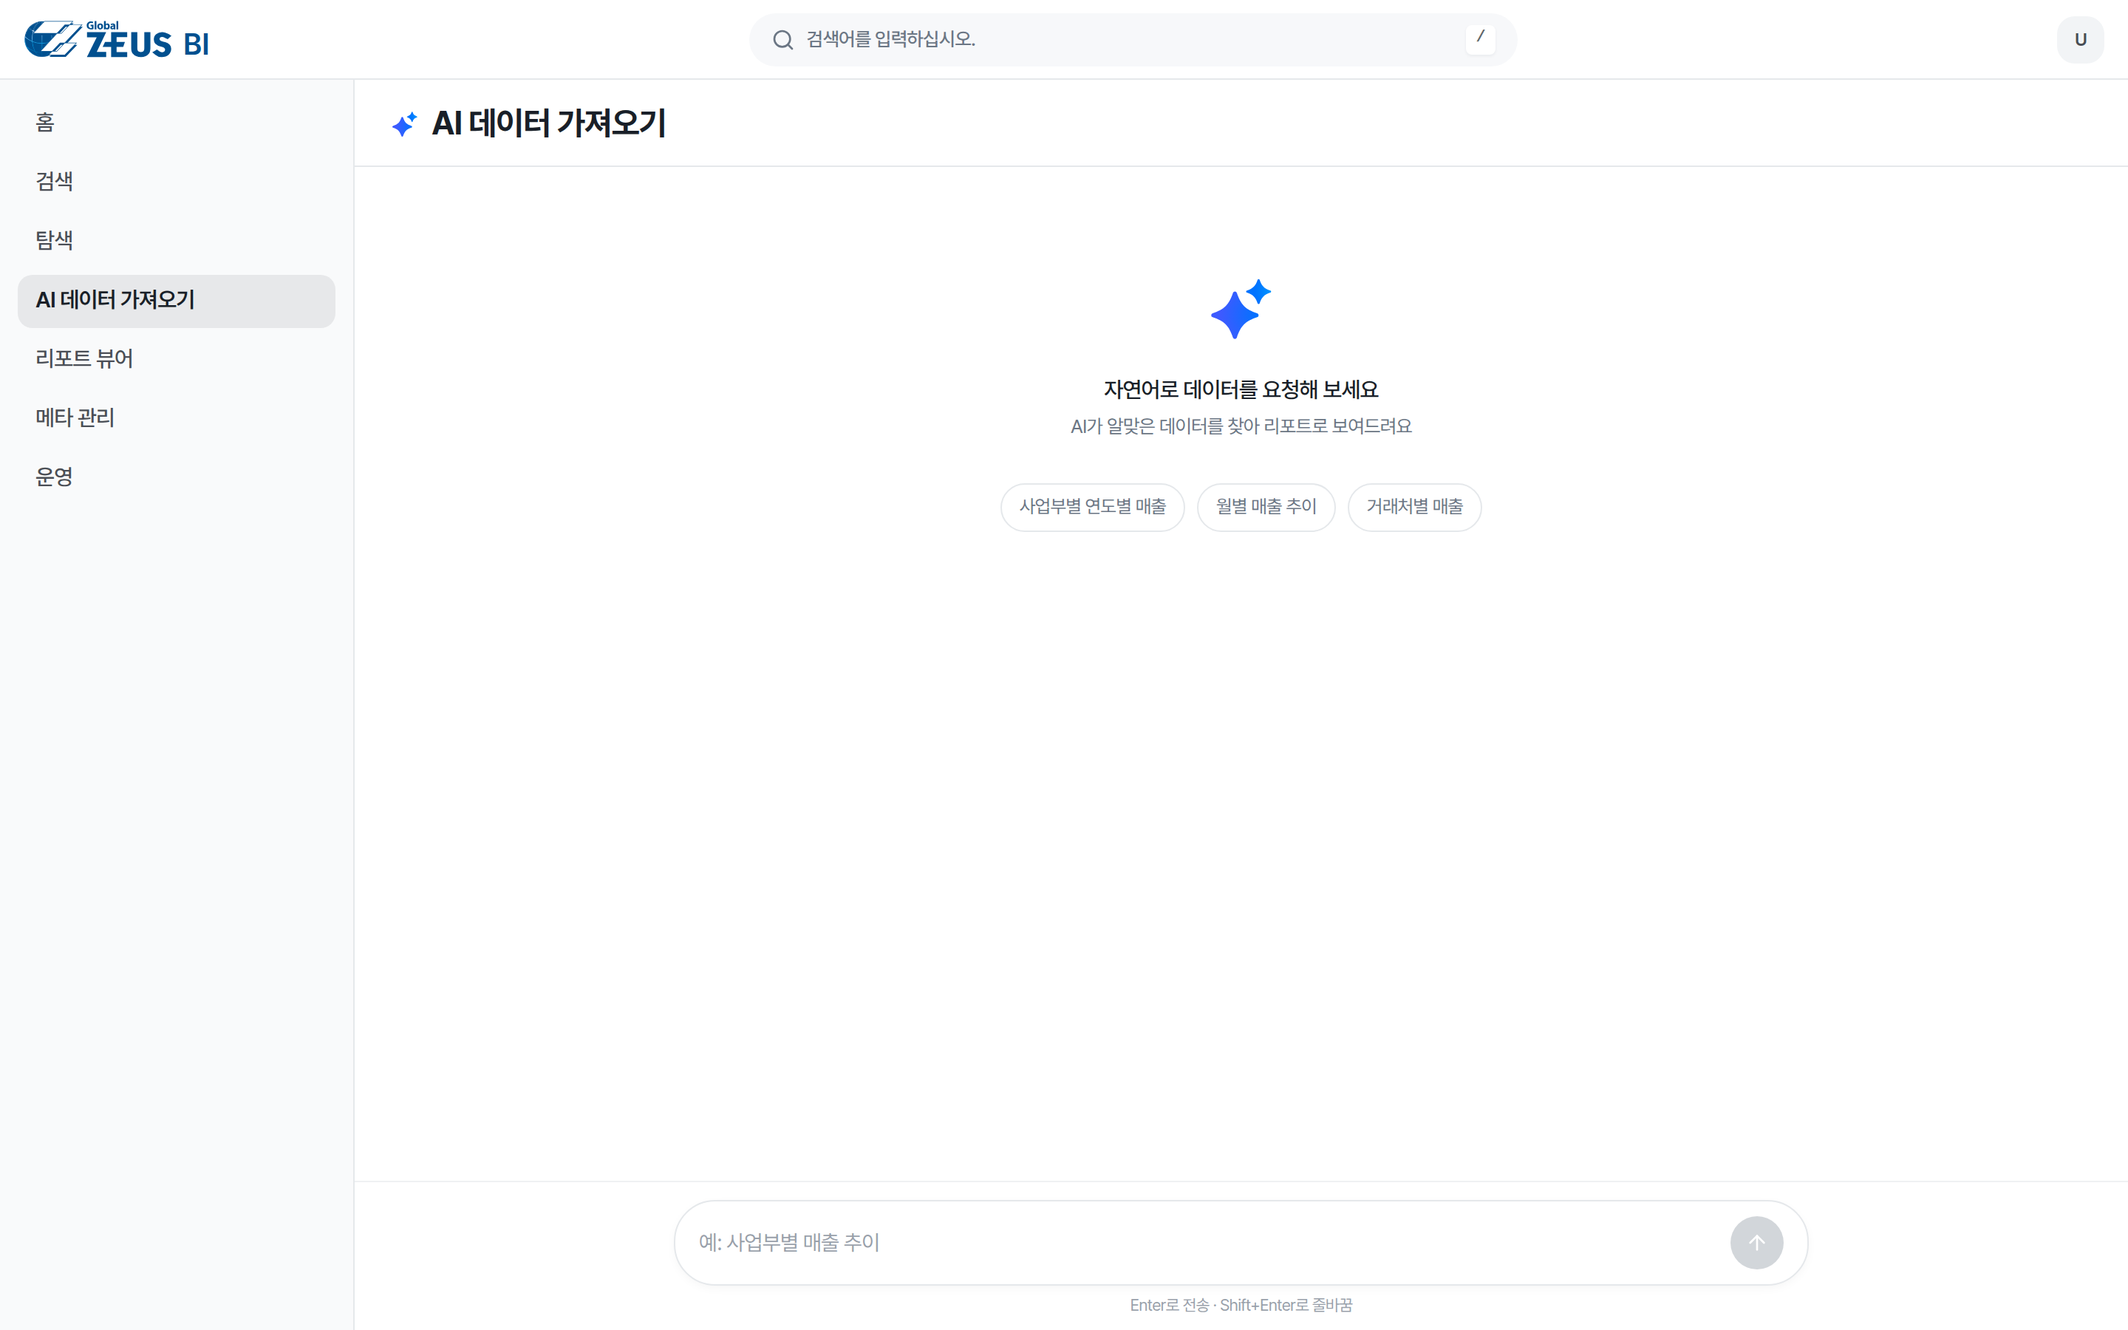
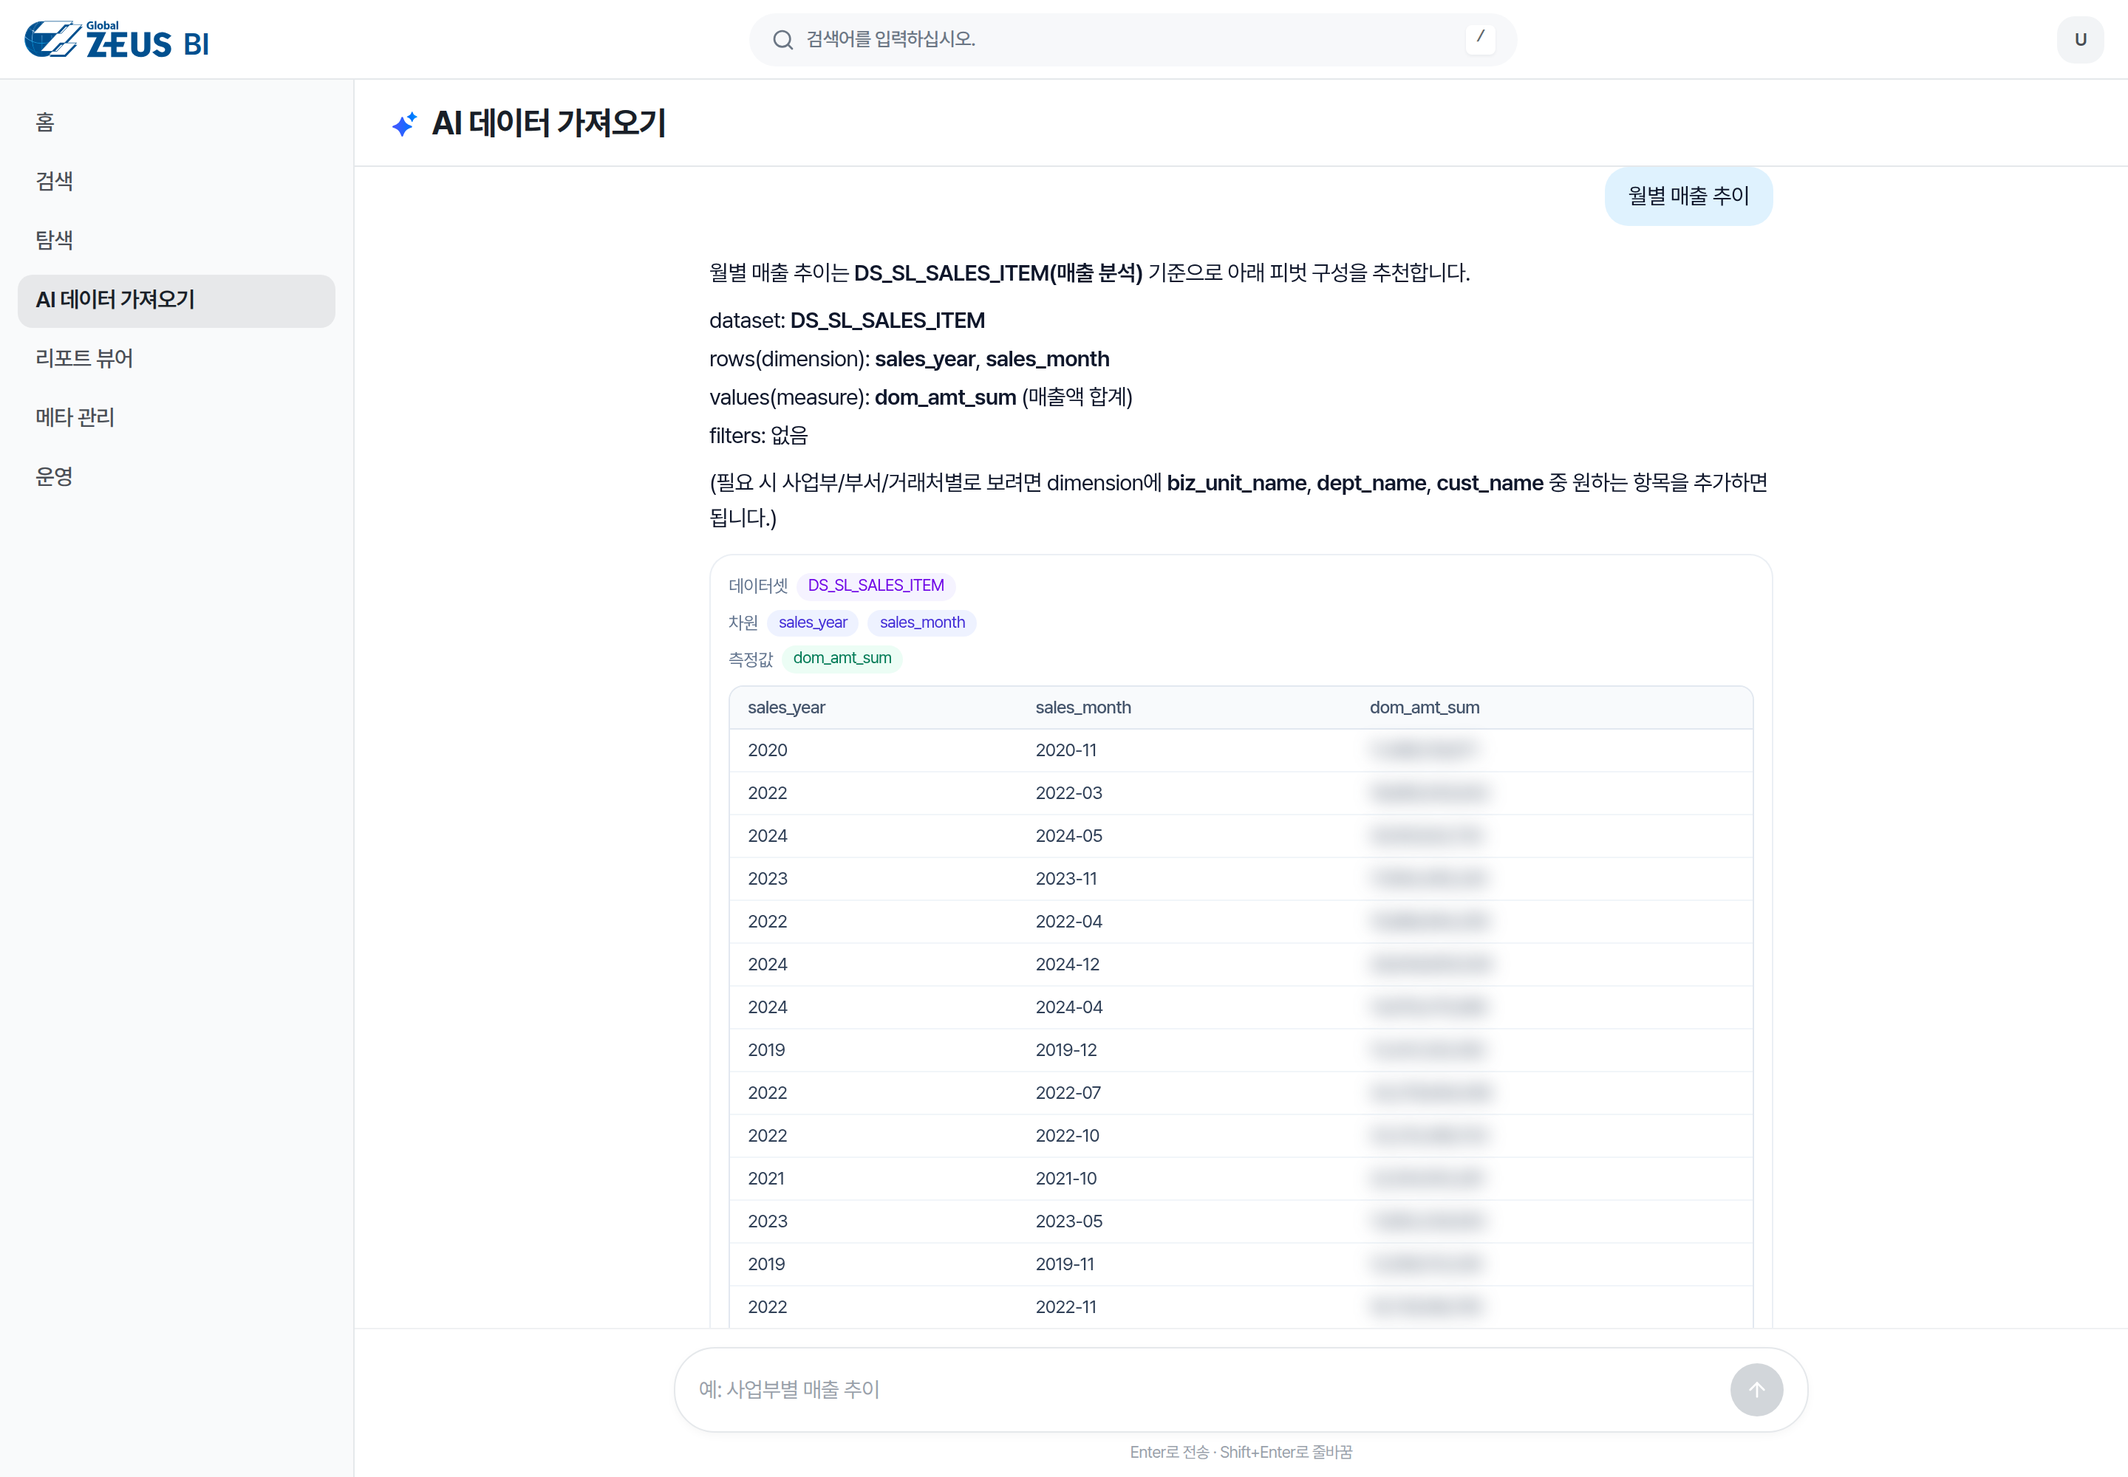
content: 여러 프로젝트 서술을 현행 코드에 맞게 정정하고 화면 보강
- bi 차트 종류를 11종으로 정정하고 자연어 데이터 조회 캡처 추가(164·165)
- work-app-platform 모바일 카탈로그 캡처 추가(162), 개인화 섹션 정리
- oneplace 스토어 앱 서술에서 미착수 iOS 표기 제거
- pms 협업 문단 도입부 문구 정리
- visit 인증에 Redis 세션·SSO(Brity OIDC)·이수 현황 서술 추가, 기술 스택에 Redis·Socket.IO 반영

diff --git a/src/content/builds.ts b/src/content/builds.ts
@@ -110,9 +110,8 @@ export const builds: Build[] = [
       { type: 'paragraph', text: '개인이 만든 앱과 회사가 공식 운영하는 앱을 구분하기 위해 회사 폴더를 두었습니다. 폴더는 관리자만 편집할 수 있고, 폴더 단위로 부서와 사용자별 권한과 공개 여부를 설정합니다.' },
       { type: 'heading', text: '통합검색' },
       { type: 'paragraph', text: '앱이 늘어날수록 문서가 어느 앱에 있는지 찾는 일이 문제가 되기 때문에, 모든 앱의 문서를 가로질러 찾는 Elasticsearch 통합 검색을 만들었습니다. 문서 변경은 outbox에 쌓아 동기화 워커가 색인을 갱신하는 구조라, 본 데이터와 검색 색인이 어긋나지 않습니다.' },
-      { type: 'heading', text: '개인화' },
-      { type: 'paragraph', text: '플랫폼이 회사 표준이 되려면 개인의 쓰임새도 담아야 한다고 봤습니다. 앱 즐겨찾기와 나의 폴더로 자주 쓰는 앱을 정리하고, 앱의 기본 화면과 별개로 사용자별 뷰 설정(뷰 종류, 컬럼 구성, 보드 카드 필드)을 저장합니다. 최근 검색어와 캘린더 개인 설정도 같은 맥락의 기능입니다.' },
       { type: 'heading', text: '모바일' },
+      { type: 'image', src: '/projects/work-app-platform/162.png', alt: '모바일 앱 카탈로그 화면', caption: '모바일 — 전용 레이아웃의 앱 카탈로그와 검색' },
       { type: 'paragraph', text: '조회, 작성, 검색 같은 핵심 동선은 전용 모바일 레이아웃으로 처리합니다. 앱 설계처럼 데스크톱이 필요한 화면은 모바일에서 진입하면 안내 화면으로 막아, 어중간하게 깨진 화면을 보여주지 않습니다.' },
     ],
   },
@@ -128,7 +127,7 @@ export const builds: Build[] = [
       { type: 'image', src: '/projects/oneplace/136.png', alt: '홈 대시보드 화면', caption: '홈 대시보드 (수치와 알림은 블러 처리)' },
       { type: 'heading', text: '개요' },
       { type: 'paragraph', text: '흩어져 있는 사내 서비스의 입구를 하나로 모으는 통합 포털을 구축했습니다. 임직원이 하루를 시작하는 첫 화면을 목표로, 사용자별로 구성되는 개인 대시보드로 설계했습니다.' },
-      { type: 'paragraph', text: '같은 웹 한 벌로 PC, 모바일 브라우저, 스토어 설치형 앱(Android/iOS)까지 커버하는 것을 아키텍처 전략으로 잡았습니다.' },
+      { type: 'paragraph', text: '같은 웹 한 벌로 PC, 모바일 브라우저, 스토어 설치형 앱까지 커버하는 것을 아키텍처 전략으로 잡았습니다.' },
       { type: 'heading', text: '홈 대시보드' },
       { type: 'paragraph', text: '인사 배너, 즐겨찾기, 최근 사용 메뉴, 알림, 연차 현황, 오늘 근무시간 요약, 날씨까지, 임직원이 자주 확인하는 정보를 한 화면에 모았습니다. 다른 시스템에 들어가야 보이던 것들을 첫 화면으로 끌어온 것입니다.' },
       { type: 'heading', text: '전사 서비스 메뉴' },
@@ -170,13 +169,14 @@ export const builds: Build[] = [
       { type: 'paragraph', text: '분석 대상은 데이터셋, 차원, 측정값 메타로 등록해 관리합니다. 메타를 수정하면 쿼리 엔진에 즉시 반영되므로, 새 분석 주제를 추가할 때 코드 배포가 필요 없습니다. 삭제가 기존 리포트를 깨뜨리지 않도록, 차원이나 측정값을 지우기 전에 사용 중인 리포트를 검사해 경고하는 방어 장치도 두었습니다.' },
       { type: 'heading', text: '리포트 뷰어와 디자이너' },
       { type: 'image', src: '/projects/bi/103.png', alt: '매출 대시보드 리포트 화면', caption: '매출 대시보드 리포트 (수치는 블러 처리)' },
-      { type: 'paragraph', text: '리포트는 위젯 배치를 담은 layout JSON으로 저장되고, 뷰어가 이를 피벗, 차트, KPI 카드 위젯으로 렌더링합니다. 차트는 Recharts 기반으로 막대, 라인, 영역, 파이 등 7종을 만들었습니다.' },
+      { type: 'paragraph', text: '리포트는 위젯 배치를 담은 layout JSON으로 저장되고, 뷰어가 이를 피벗, 차트, KPI 카드 위젯으로 렌더링합니다. 차트는 Recharts 기반으로 막대, 라인, 영역, 파이, 도넛, 트리맵, 콤보 등 11종을 만들었습니다.' },
       { type: 'paragraph', text: '디자이너에서 만든 리포트가 뷰어에서 다르게 보이면 저작 도구는 신뢰를 잃습니다. 그래서 뷰어와 디자이너가 같은 렌더 컴포넌트를 공유하도록 설계해, 편집 화면이 곧 최종 화면이 되게 했습니다. 편집은 차원과 측정값을 캔버스로 끌어다 놓는 드래그앤드롭 방식이고, 1초 디바운스 자동 저장과 실행 취소(Ctrl+Z/Y)를 두어 저장 버튼을 신경 쓰지 않고 편집에 집중할 수 있게 했습니다.' },
       { type: 'heading', text: 'ERP 실데이터 연동' },
       { type: 'paragraph', text: '개발 초기에는 합성 데이터로 시작했지만, ERP DW의 매출, 프로젝트 원가, 노무 투입 데이터를 ETL로 적재해 실데이터 기반으로 전환했습니다. 영업 조직의 월별 매출 실적 대비 목표를 보여주는 매출 대시보드, 거래처 집중도나 손실 프로젝트 분석 같은 실제 분석 리포트를 이 위에서 만들었습니다.' },
       { type: 'heading', text: '자연어 데이터 조회' },
       { type: 'image', src: '/projects/bi/164.png', alt: 'AI 데이터 가져오기 화면', caption: '자연어 질문을 데이터셋과 차원, 측정값으로 해석해 리포트로 만들어 줍니다.' },
       { type: 'paragraph', text: '리포트를 직접 구성하지 않아도 되도록, 자연어 질문을 받아 알맞은 데이터셋과 차원, 측정값을 골라 조회하고 결과를 미리보기 표로 돌려주는 기능을 더했습니다. LLM은 등록된 데이터셋 메타 안에서 피벗 구성을 고르는 역할만 맡아, 조회가 정의된 범위를 벗어나지 않습니다. 만들어진 구성은 그대로 리포트 뷰어로 열어 저장할 수 있습니다.' },
+      { type: 'image', src: '/projects/bi/165.png', alt: 'AI 데이터 가져오기 워크플로우 다이어그램', caption: '자연어 질문이 리포트가 되기까지 — LLM은 구성만 고르고, 조회와 검증은 기존 쿼리 엔진이 맡습니다.' },
       { type: 'heading', text: '인증과 권한, 운영' },
       { type: 'paragraph', text: '인증은 사내 SSO(OIDC)로 연동하고, 권한은 사번 기준으로 폴더, 데이터셋, 리포트 단위까지 내렸습니다. 관리자, 작성자, 조회자 등급에 따라 보이는 메뉴와 가능한 작업이 달라집니다.' },
       { type: 'paragraph', text: '운영 기능으로는 관리자 행위를 남기는 감사 로그, 감사 정리와 리포트 사전계산 스케줄 잡, 서버 오류의 메신저 알림을 두었고, DB 상태와 캐시 적중률을 확인하는 운영 모니터링 화면을 만들었습니다.' },
@@ -392,7 +392,7 @@ export const builds: Build[] = [
       { type: 'heading', text: '협업문서 (실시간 공동 편집)' },
       { type: 'image', src: '/projects/pms/139.png', alt: '협업 문서 목록 화면', caption: '협업 탭 — 문서 목록' },
       { type: 'image', src: '/projects/pms/140.png', alt: '협업 문서 공동 편집 화면', caption: '브라우저 안에서 열리는 공동 편집기' },
-      { type: 'paragraph', text: '문서를 내려받아 고치고 다시 올리는 흐름을 없애고 싶어서, 프로젝트 안에서 엑셀, 워드, PPT를 브라우저로 함께 편집하는 협업 탭을 만들었습니다. ONLYOFFICE Document Server를 사내에 직접 띄워 임베드했고, 같은 문서를 여러 명이 동시에 편집하며 참여자가 실시간으로 표시됩니다.' },
+      { type: 'paragraph', text: '프로젝트 안에서 엑셀, 워드, PPT를 브라우저로 함께 편집하는 협업 탭을 만들었습니다. ONLYOFFICE Document Server를 사내에 직접 띄워 임베드했고, 같은 문서를 여러 명이 동시에 편집하며 참여자가 실시간으로 표시됩니다.' },
       { type: 'paragraph', text: '편집 세션이 끝날 때마다 버전 스냅샷이 자동으로 쌓입니다. 이전 버전은 읽기 전용으로 미리 보고, 복원할 때는 현재 내용을 먼저 새 버전으로 보관한 뒤 되돌리는 비파괴 방식을 택했습니다. 각 버전에는 공동 편집에 참여한 사람이 함께 기록됩니다.' },
       { type: 'paragraph', text: '문서는 공개와 비공개로 나뉘고, 비공개 문서는 권한을 받은 사람만 보거나 편집할 수 있습니다. 읽기 전용 사용자에게는 저장 콜백 자체를 발급하지 않아 서버 차원에서 수정이 차단됩니다. 세션이 없는 문서 서버의 호출은 문서별 토큰으로 검증합니다.' },
       { type: 'paragraph', text: '협업 문서의 본문 텍스트도 추출해 통합검색에 색인했습니다. 색인에 문서 권한까지 반영해, 검색 결과에서도 비공개가 그대로 지켜집니다.' },
@@ -405,7 +405,7 @@ export const builds: Build[] = [
     org: 'GlobalZeus',
     role: '1인 풀스택',
     period: '2025. 3 ~ 2025. 5',
-    tech: 'Next.js · Node.js · MSSQL',
+    tech: 'Next.js · Node.js · MSSQL · Redis · Socket.IO',
     blocks: [
       { type: 'image', src: '/projects/visit-reservation/49.png', alt: '방문 예약 시스템 메인 화면' },
       { type: 'heading', text: '개요' },
@@ -413,7 +413,7 @@ export const builds: Build[] = [
       { type: 'heading', text: '가입 / 인증' },
       { type: 'image', src: '/projects/visit-reservation/50.png', alt: '회원가입 화면' },
       { type: 'paragraph', text: '회원가입은 NICE 본인인증 API 기반 휴대폰 인증으로 처리합니다. 해외 방문객처럼 휴대폰 인증이 어려운 사용자가 있어서, 임직원 승인 기반의 가입 경로를 따로 설계했습니다.' },
-      { type: 'paragraph', text: '인증은 Access Token / Refresh Token 구조의 JWT로 구현하고 세션 유지 로직을 더했습니다.' },
+      { type: 'paragraph', text: '인증은 Access Token / Refresh Token 구조의 JWT로 구현하고, Refresh Token은 Redis에 보관해 갱신과 무효화를 다룹니다. 백오피스로 들어오는 임직원은 사내 SSO(Brity OIDC)로 로그인하며, 로그인 후 돌아갈 주소는 사내 도메인만 허용해 오픈 리다이렉트를 막았습니다.' },
       { type: 'heading', text: '방문 신청' },
       { type: 'image', src: '/projects/visit-reservation/51.png', alt: '방문 신청 화면', caption: '방문 신청 화면' },
       { type: 'image', src: '/projects/visit-reservation/52.png', alt: '교육 및 서약 화면', caption: '교육 및 서약 화면' },
@@ -428,7 +428,7 @@ export const builds: Build[] = [
       { type: 'subheading', text: '관리자 화면' },
       { type: 'image', src: '/projects/visit-reservation/55.png', alt: '관리자 설정 화면' },
       { type: 'image', src: '/projects/visit-reservation/56.png', alt: '교육 콘텐츠 관리 화면' },
-      { type: 'paragraph', text: '방문 유형과 교육 콘텐츠는 관리자가 직접 관리합니다. 새 방문 유형이 생겨도 개발 없이 운영에서 추가할 수 있습니다.' },
+      { type: 'paragraph', text: '방문 유형과 교육 콘텐츠는 관리자가 직접 관리합니다. 새 방문 유형이 생겨도 개발 없이 운영에서 추가할 수 있습니다. 교육과 서약은 콘텐츠 관리에 더해 방문객별 이수 현황을 조회하고 엑셀로 내려받을 수 있게 해, 이수 여부를 운영에서 추적합니다.' },
       { type: 'heading', text: '출입 관리' },
       { type: 'image', src: '/projects/visit-reservation/57.png', alt: '출입 관리 화면' },
       { type: 'paragraph', text: '승인이 완료된 방문객에게는 QR 출입증이 발급됩니다. 실물 방문 카드는 방문 유형별로 등록해두고 키오스크에서 배정하고 회수하는 방식으로 관리합니다.' },

diff --git a/src/content/imageDims.ts b/src/content/imageDims.ts
@@ -2,7 +2,7 @@
 // 프로젝트 스크린샷의 픽셀 크기맵 — ProjectImage가 종횡비를 확보해 CLS를 0으로 만드는 데 씁니다.
 export const imageDims: Record<string, { w: number; h: number }> = {
   '/projects/ai-platform/02.png': { w: 492, h: 910 },
-  '/projects/ai-platform/09.png': { w: 486, h: 511 },
+  '/projects/ai-platform/09.png': { w: 2285, h: 1773 },
   '/projects/ai-platform/11.png': { w: 750, h: 893 },
   '/projects/ai-platform/118.png': { w: 2880, h: 1800 },
   '/projects/ai-platform/119.png': { w: 2880, h: 1800 },
@@ -24,6 +24,8 @@ export const imageDims: Record<string, { w: number; h: number }> = {
   '/projects/ai-platform/159.png': { w: 2560, h: 720 },
   '/projects/ai-platform/16.png': { w: 1091, h: 866 },
   '/projects/ai-platform/163.png': { w: 1980, h: 1240 },
+  '/projects/ai-platform/166.png': { w: 2560, h: 564 },
+  '/projects/ai-platform/167.png': { w: 2850, h: 2048 },
   '/projects/ai-platform/17.png': { w: 1100, h: 744 },
   '/projects/ai-platform/24.png': { w: 494, h: 806 },
   '/projects/attendance/115.png': { w: 1600, h: 900 },
@@ -37,7 +39,8 @@ export const imageDims: Record<string, { w: number; h: number }> = {
   '/projects/bi/104.png': { w: 1600, h: 900 },
   '/projects/bi/105.png': { w: 1600, h: 900 },
   '/projects/bi/162.png': { w: 2560, h: 564 },
-  '/projects/bi/164.png': { w: 2880, h: 1800 },
+  '/projects/bi/164.png': { w: 2880, h: 2000 },
+  '/projects/bi/165.png': { w: 2560, h: 564 },
   '/projects/crm/26.png': { w: 2490, h: 1350 },
   '/projects/crm/27.png': { w: 2490, h: 1350 },
   '/projects/crm/28.png': { w: 1640, h: 859 },
@@ -76,9 +79,10 @@ export const imageDims: Record<string, { w: number; h: number }> = {
   '/projects/oneplace/142.png': { w: 1170, h: 2532 },
   '/projects/oneplace/143.png': { w: 1170, h: 2532 },
   '/projects/oneplace/144.png': { w: 2880, h: 1800 },
-  '/projects/patent-management/108.png': { w: 1600, h: 900 },
-  '/projects/patent-management/109.png': { w: 1600, h: 900 },
+  '/projects/patent-management/108.png': { w: 2520, h: 1445 },
+  '/projects/patent-management/109.png': { w: 2520, h: 1500 },
   '/projects/patent-management/110.png': { w: 1600, h: 900 },
+  '/projects/patent-management/168.png': { w: 2520, h: 1575 },
   '/projects/pms/138.png': { w: 2880, h: 1800 },
   '/projects/pms/139.png': { w: 2880, h: 1800 },
   '/projects/pms/140.png': { w: 2880, h: 1800 },
@@ -121,6 +125,7 @@ export const imageDims: Record<string, { w: number; h: number }> = {
   '/projects/work-app-platform/155.png': { w: 2880, h: 1800 },
   '/projects/work-app-platform/156.png': { w: 2880, h: 1800 },
   '/projects/work-app-platform/161.png': { w: 2560, h: 668 },
+  '/projects/work-app-platform/162.png': { w: 1170, h: 2532 },
   '/projects/work-app-platform/88.png': { w: 1856, h: 860 },
   '/projects/work-app-platform/91.png': { w: 1848, h: 856 },
   '/projects/work-app-platform/92.png': { w: 1886, h: 916 },
